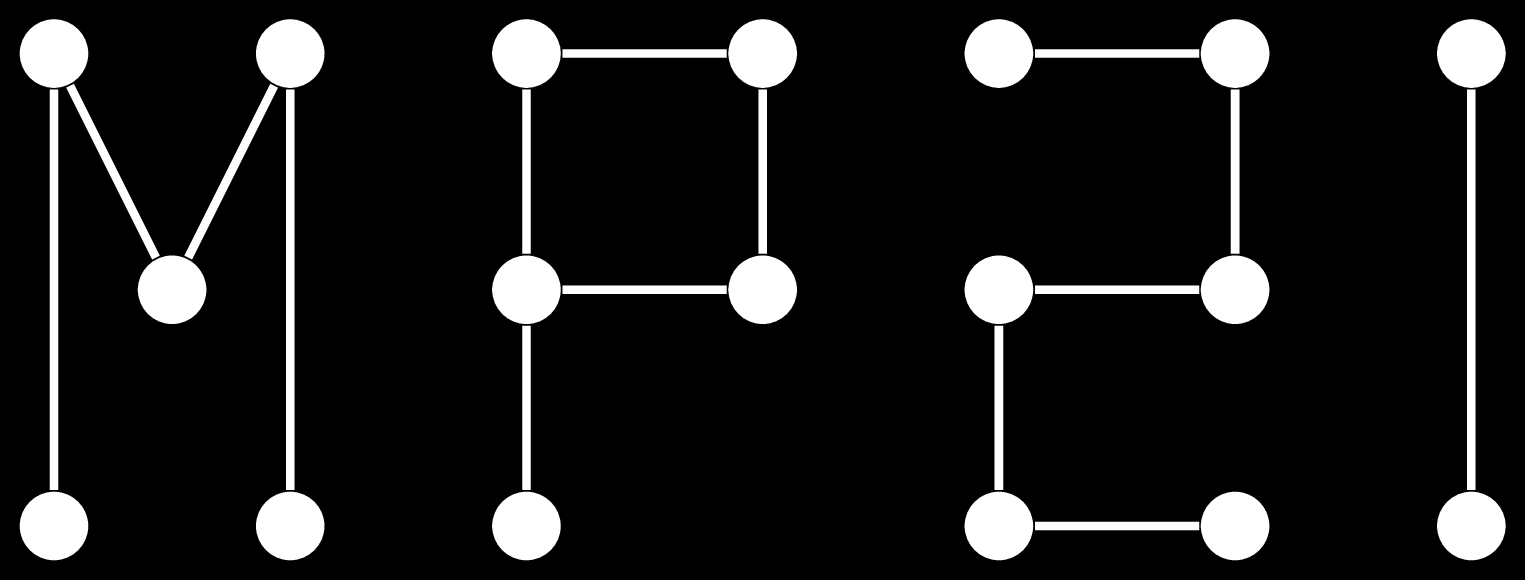
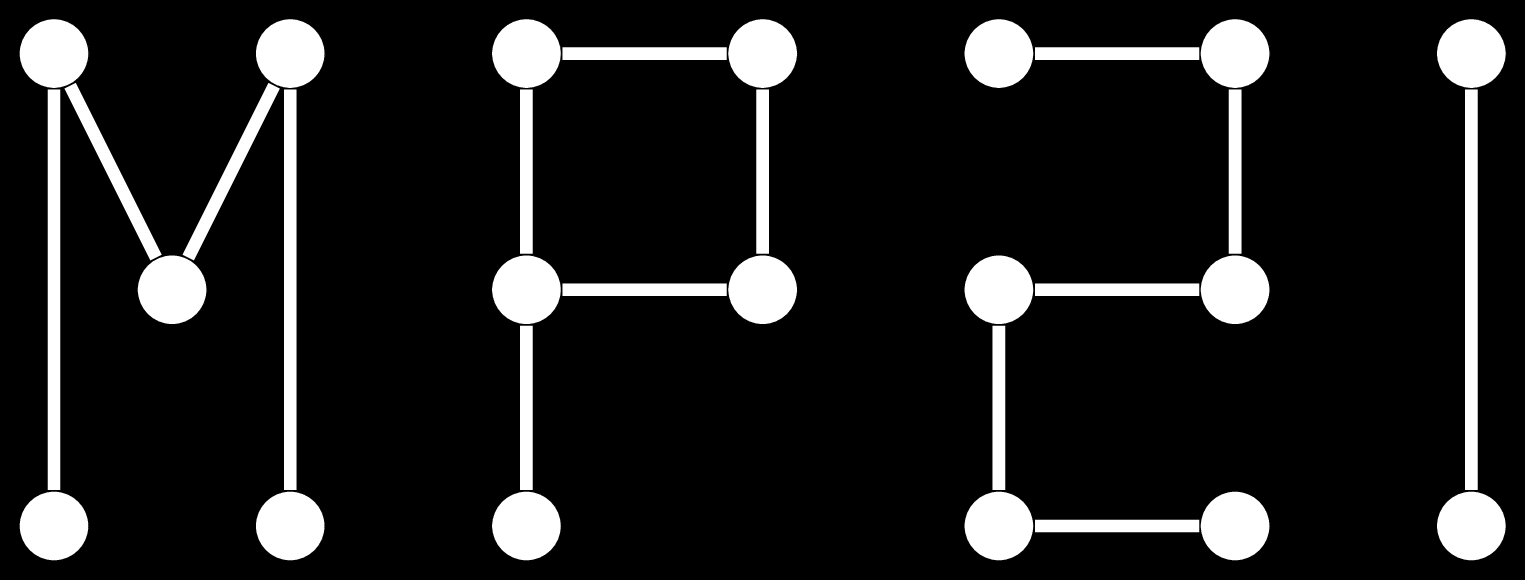
Increase

diff --git a/other/mp2i/mp2i.tex b/other/mp2i/mp2i.tex
@@ -9,24 +9,24 @@
 
         \foreach \x/\y in {0/0, 0/4, 1/2, 2/4, 2/0}
             \node[vertex] (M\x-\y) at (\x*\h, \y*\h) {};
-        \draw[color=white, line width=2pt] (M0-0) -- (M0-4) -- (M1-2) -- (M2-4) -- (M2-0);
+        \draw[color=white, line width=3pt] (M0-0) -- (M0-4) -- (M1-2) -- (M2-4) -- (M2-0);
 
         \begin{scope}[xshift=4cm]
             \foreach \x/\y in {0/0, 0/4, 2/4, 2/2, 0/2}
                 \node[vertex] (P\x-\y) at (\x*\h, \y*\h) {};
-            \draw[color=white, line width=2pt] (P0-0) -- (P0-2) -- (P0-4) -- (P2-4) -- (P2-2) -- (P0-2);
+            \draw[color=white, line width=3pt] (P0-0) -- (P0-2) -- (P0-4) -- (P2-4) -- (P2-2) -- (P0-2);
         \end{scope}
 
         \begin{scope}[xshift=8cm]
             \foreach \x/\y in {0/4, 2/4, 2/2, 0/2, 0/0, 2/0}
                 \node[vertex] (D\x-\y) at (\x*\h, \y*\h) {};
-            \draw[color=white, line width=2pt] (D0-4) -- (D2-4) -- (D2-2) -- (D0-2) -- (D0-0) -- (D2-0);
+            \draw[color=white, line width=3pt] (D0-4) -- (D2-4) -- (D2-2) -- (D0-2) -- (D0-0) -- (D2-0);
         \end{scope}
 
         \begin{scope}[xshift=12cm]
             \node (I0) at (0, 0) {};
             \node (I1) at (0, 4) {};
-            \draw[color=white, line width=2pt] (I0) -- (I1);
+            \draw[color=white, line width=3pt] (I0) -- (I1);
         \end{scope}
     \end{tikzpicture}
 \end{document}
